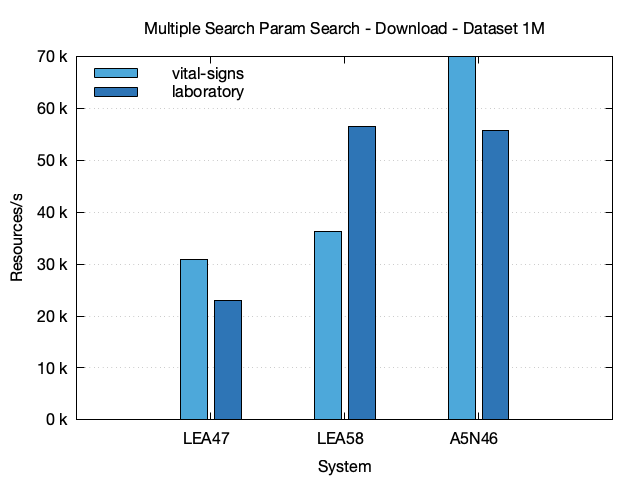
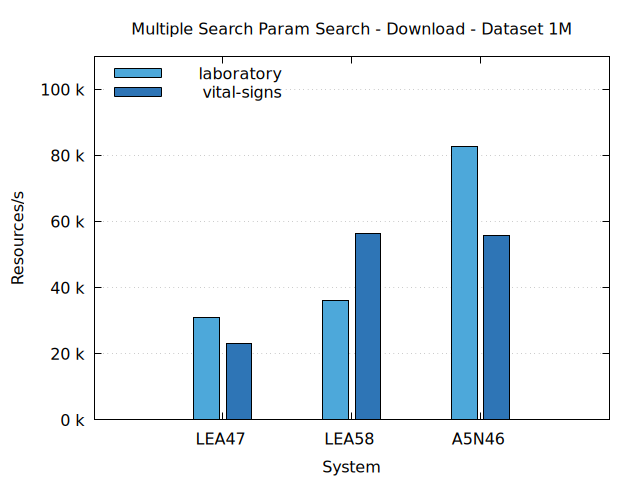
Improve FHIR Search Performance Documentation
Closes: #3766

diff --git a/docs/performance/fhir-search.md b/docs/performance/fhir-search.md
@@ -154,7 +154,7 @@ The script `multiple-codes-search.sh` is used.
 
 ### Downloading Resources
 
-![](fhir-search/multiple-code-search-download-1M.png)
+![](fhir-search/multiple-codes-search-download-1M.png)
 
 | System | Dataset | Codes | # Hits | Time (s) | StdDev | Res/s ¹ |
 |--------|---------|-------|-------:|---------:|-------:|--------:|
@@ -186,6 +186,8 @@ The script `multiple-codes-search-vs.sh` is used.
 ¹ resources per second
 
 ### Downloading Resources
+
+![](fhir-search/multiple-codes-search-vs-download-1M.png)
 
 | System | Dataset | Codes | # Hits | Time (s) | StdDev | Res/s ¹ |
 |--------|---------|-------|-------:|---------:|-------:|--------:|
@@ -293,6 +295,8 @@ The script `token-forward-chaining-search.sh` is used.
 ¹ resources per second
 
 ### Downloading Resources
+
+![](fhir-search/token-forward-chaining-search-download-1M.png)
 
 | System | Dataset | # Hits | Time (s) | StdDev | Res/s ¹ |
 |--------|---------|-------:|---------:|-------:|--------:|
@@ -496,6 +500,8 @@ The script `code-patient-search.sh` is used.
 
 ### Downloading Resources
 
+![](fhir-search/code-patient-search-download-1M.png)
+
 | System | Dataset | Code    | # Hits | Time (s) | StdDev | Res/s ¹ |
 |--------|---------|---------|-------:|---------:|-------:|--------:|
 | LEA47  | 1M      | 8310-5  |    943 |     0.07 |  0.000 |  13.5 k |
@@ -564,6 +570,8 @@ The script `multiple-codes-patient-search.sh` is used.
 
 ### Downloading Resources
 
+![](fhir-search/multiple-codes-patient-search-download-1M.png)
+
 | System | Dataset | Codes | # Hits | Time (s) | StdDev | Res/s ¹ |
 |--------|---------|------:|-------:|---------:|-------:|--------:|
 | LEA47  | 1M      |    10 |  121 k |     2.44 |  0.054 |  49.7 k |
@@ -603,6 +611,8 @@ The script `code-date-patient-search.sh` is used.
 ¹ resources per second
 
 ### Downloading Resources
+
+![](fhir-search/code-date-patient-search-download-1M.png)
 
 | System | Dataset | Code    | # Hits | Time (s) | StdDev | Res/s ¹ |
 |--------|---------|---------|-------:|---------:|-------:|--------:|
@@ -658,6 +668,8 @@ The script `simple-date-search.sh` is used.
 ¹ resources per second
 
 ### Downloading Resources
+
+![](fhir-search/simple-date-search-download-1M.png)
 
 | System | Dataset | Year | # Hits | Time (s) | StdDev | Res/s ¹ |
 |--------|---------|------|-------:|---------:|-------:|--------:|
@@ -721,6 +733,8 @@ The script `patient-date-search.sh` is used.
 ¹ resources per second
 
 ### Downloading Resources
+
+![](fhir-search/patient-date-search-download-1M.png)
 
 | System | Dataset | Date         | # Hits | Time (s) | StdDev | Res/s ¹ |
 |--------|---------|--------------|-------:|---------:|-------:|--------:|